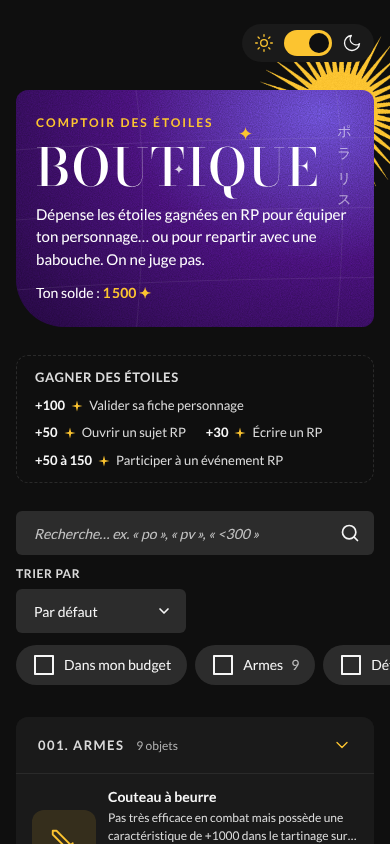
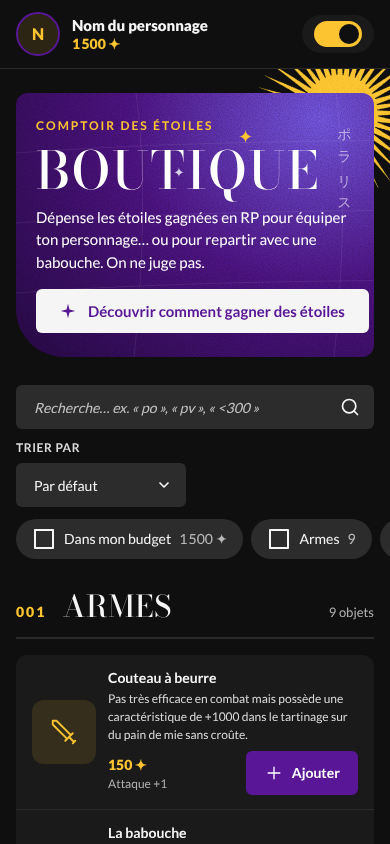
Boutique : barre joueur, titres de section, tiroir « gagner des étoiles »
Retours de revue :
- Barre joueur en haut (avatar, personnage, points) avec la bascule de
  thème à droite ; plus de vide en haut de page
- Les catégories ne sont plus des accordéons : grands titres Display
  numérotés pour structurer la page
- « Comment gagner des étoiles » passe dans un tiroir (panneau à droite
  sur desktop, feuille du bas sur mobile) ouvert depuis le bandeau
- Le filtre « Dans mon budget » affiche le montant disponible
- Descriptions affichées en entier, cartes alignées par rangée
- design.md : nouveaux motifs (barre joueur, titres, tiroir, cartes)

Claude-Session: https://claude.ai/code/session_01JzHEuFFPjQonpbuhxRkdFg

diff --git a/boutique/boutique.html b/boutique/boutique.html
@@ -106,7 +106,15 @@
 .plr-shop .plr-tag .plr-count { opacity: .7; }
 
 /* ---------- Bascule jour / nuit ---------- */
-.plr-shop .plr-topbar { display: flex; justify-content: flex-end; position: relative; z-index: 3; }
+.plr-shop .plr-playerbar { position: relative; z-index: 3; display: flex; align-items: center; justify-content: space-between; gap: 16px; padding: 16px clamp(16px, 3vw, 40px); border-bottom: 1px solid var(--line); background: var(--bg); }
+.plr-shop .plr-player { display: flex; align-items: center; gap: 12px; min-width: 0; }
+.plr-shop .plr-avatar { width: 44px; height: 44px; border-radius: 50%; flex-shrink: 0; overflow: hidden; display: grid; place-items: center; background: var(--icon-bg); color: var(--nav); border: 2px solid var(--primary); font-weight: 900; font-size: 16px; }
+.plr-shop .plr-avatar img { width: 100%; height: 100%; object-fit: cover; }
+.plr-shop .plr-player-txt { display: flex; flex-direction: column; min-width: 0; line-height: 1.25; }
+.plr-shop .plr-player-name { font-weight: 900; font-size: 15px; white-space: nowrap; overflow: hidden; text-overflow: ellipsis; }
+.plr-shop .plr-player-pts { display: inline-flex; align-items: center; gap: 5px; font-size: 14px; font-weight: 900; color: var(--price); }
+.plr-shop .plr-player-pts svg { width: 13px; height: 13px; fill: currentColor; }
+.plr-shop .plr-player-pts small { font-size: 12px; font-weight: 400; color: var(--muted); }
 .plr-shop .plr-theme { display: flex; align-items: center; gap: 10px; background: var(--surface); border-radius: 999px; padding: 6px 12px; }
 .plr-shop .plr-switch { width: 48px; height: 26px; border-radius: 999px; border: 0; background: var(--plr-gold); position: relative; cursor: pointer; padding: 0; }
 .plr-shop .plr-switch::after { content: ""; position: absolute; top: 3px; left: 3px; width: 20px; height: 20px; border-radius: 50%; background: var(--plr-black); transition: left .2s; }
@@ -124,14 +132,25 @@
 .plr-shop .plr-kicker { position: relative; color: var(--kicker); font-size: 12px; font-weight: 700; letter-spacing: 2px; text-transform: uppercase; }
 .plr-shop .plr-hero h1 { position: relative; margin: 0; font-family: var(--plr-font-title); font-weight: 500; font-size: clamp(52px, 9vw, 120px); line-height: .9; letter-spacing: 2px; color: #FFFFFF; text-transform: uppercase; }
 .plr-shop .plr-hero p { position: relative; margin: 0; max-width: 520px; color: var(--banner-text); font-size: 15px; }
-.plr-shop .plr-hero .plr-solde { position: relative; color: var(--banner-text); font-size: 14px; }
-.plr-shop .plr-hero .plr-solde b { color: var(--kicker); }
+.plr-shop .plr-hero .plr-earn-btn { position: relative; align-self: flex-start; margin-top: 4px; }
+.plr-shop .plr-hero .plr-earn-btn svg { width: 16px; height: 16px; fill: currentColor; stroke: none; }
 
 /* ---------- Gagner des étoiles ---------- */
-.plr-shop .plr-earn { display: flex; flex-wrap: wrap; align-items: center; gap: 8px 20px; padding: 12px 18px; border-radius: 12px; border: 1px dashed var(--line); }
-.plr-shop .plr-earn > span { display: inline-flex; align-items: center; gap: 6px; font-size: 13px; color: var(--text2); }
-.plr-shop .plr-earn b { color: var(--text); }
-.plr-shop .plr-earn svg { width: 12px; height: 12px; fill: var(--nav); }
+/* Tiroir (desktop : panneau à droite / mobile : feuille du bas) */
+.plr-shop .plr-drawer { position: fixed; inset: 0 0 0 auto; margin: 0; width: min(440px, 100vw); height: 100%; max-height: 100%; max-width: 100vw; padding: 0; border: 0; background: var(--surface); color: var(--text); border-left: 6px solid var(--primary); overflow-y: auto; }
+.plr-shop .plr-drawer[open] { animation: plr-slide-x .25s ease-out; }
+@keyframes plr-slide-x { from { transform: translateX(40px); opacity: 0; } }
+@keyframes plr-slide-y { from { transform: translateY(40px); opacity: 0; } }
+.plr-shop .plr-drawer-head { position: sticky; top: 0; display: flex; align-items: center; justify-content: space-between; gap: 12px; padding: 20px 24px; background: var(--header); }
+.plr-shop .plr-drawer-head h2 { margin: 0; font-family: var(--plr-font-title); font-weight: 500; font-size: 26px; line-height: 1.1; text-transform: uppercase; }
+.plr-shop .plr-drawer-close { width: 44px; height: 44px; border: 0; background: transparent; color: var(--text); font-size: 24px; cursor: pointer; flex-shrink: 0; }
+.plr-shop .plr-drawer-body { padding: 8px 24px 28px; }
+.plr-shop .plr-drawer h3 { margin: 22px 0 8px; font-size: 13px; font-weight: 700; letter-spacing: 1.2px; text-transform: uppercase; color: var(--text2); }
+.plr-shop .plr-gain { display: flex; align-items: flex-start; gap: 14px; padding: 12px 0; border-bottom: 1px solid var(--line); }
+.plr-shop .plr-gain b { flex: 0 0 104px; color: var(--price); font-size: 15px; font-weight: 900; white-space: nowrap; }
+.plr-shop .plr-gain span { flex: 1; min-width: 0; font-size: 14px; line-height: 1.45; }
+.plr-shop .plr-gain small { display: block; margin-top: 2px; font-size: 12px; color: var(--muted); }
+.plr-shop .plr-drawer-note { margin: 20px 0 0; padding: 14px 16px; border-radius: 10px; background: var(--inner); font-size: 13px; line-height: 1.5; color: var(--text2); }
 
 /* ---------- Recherche, tri, filtres ---------- */
 .plr-shop .plr-tools { display: flex; flex-direction: column; gap: 12px; position: relative; z-index: 4; }
@@ -163,13 +182,12 @@
 .plr-shop .plr-empty[hidden] { display: none; }
 
 /* ---------- Catégories repliables ---------- */
-.plr-shop .plr-cat { border-radius: 12px; overflow: hidden; background: var(--surface); margin-bottom: 20px; }
-.plr-shop .plr-cat-head { width: 100%; min-height: 52px; display: flex; align-items: center; justify-content: space-between; gap: 12px; background: var(--header); color: var(--text); border: 0; padding: 18px 22px; cursor: pointer; text-align: left; }
-.plr-shop .plr-cat-title { font-size: 13px; font-weight: 700; letter-spacing: 1.4px; text-transform: uppercase; color: var(--text2); }
-.plr-shop .plr-cat-count { margin-left: 12px; font-size: 12px; color: var(--muted); }
-.plr-shop .plr-chev { width: 14px; height: 14px; color: var(--nav); stroke-width: 2.5; transition: transform .3s; }
-.plr-shop .plr-cat-head[aria-expanded="false"] .plr-chev { transform: rotate(-90deg); }
-.plr-shop .plr-grid { padding: 20px; display: grid; grid-template-columns: repeat(auto-fill, minmax(240px, 1fr)); gap: 20px; background: var(--inner); }
+.plr-shop .plr-cat + .plr-cat { margin-top: 48px; }
+.plr-shop .plr-cat-head { display: flex; align-items: baseline; gap: 16px; flex-wrap: wrap; padding-bottom: 14px; margin-bottom: 24px; border-bottom: 2px solid var(--line); }
+.plr-shop .plr-cat-num { font-size: 14px; font-weight: 900; letter-spacing: 2px; color: var(--nav); }
+.plr-shop .plr-cat-head h2 { margin: 0; font-family: var(--plr-font-title); font-weight: 500; font-size: clamp(30px, 4vw, 44px); line-height: 1; letter-spacing: 1px; text-transform: uppercase; }
+.plr-shop .plr-cat-count { margin-left: auto; font-size: 13px; color: var(--muted); }
+.plr-shop .plr-grid { display: grid; grid-template-columns: repeat(auto-fill, minmax(240px, 1fr)); gap: 20px; }
 
 /* ---------- Carte objet ---------- */
 .plr-shop .plr-card { position: relative; background: var(--surface); border-radius: 12px; overflow: hidden; border-top: 6px solid var(--primary); display: flex; flex-direction: column; transition: transform .15s; }
@@ -196,7 +214,7 @@
 .plr-shop .plr-qty button:disabled { opacity: .35; cursor: not-allowed; }
 .plr-shop .plr-chip { font-size: 11px; font-weight: 700; letter-spacing: .8px; text-transform: uppercase; color: var(--tag-text); background: var(--tag-bg); padding: 3px 8px; border-radius: 999px; }
 .plr-shop .plr-card h3 { margin: 0; font-size: 16px; font-weight: 700; line-height: 1.3; }
-.plr-shop .plr-desc { margin: 0; font-size: 13px; line-height: 1.5; color: var(--text2); display: -webkit-box; -webkit-line-clamp: 3; -webkit-box-orient: vertical; overflow: hidden; }
+.plr-shop .plr-desc { margin: 0; font-size: 13px; line-height: 1.5; color: var(--text2); }
 .plr-shop .plr-foot { margin-top: auto; padding-top: 12px; display: flex; align-items: center; justify-content: space-between; gap: 8px; }
 .plr-shop .plr-price { color: var(--price); font-size: 18px; font-weight: 900; }
 .plr-shop .plr-stat { display: block; font-size: 12px; color: var(--muted); }
@@ -267,10 +285,16 @@
   .plr-shop .plr-cartbar b { font-size: 18px; font-weight: 900; color: var(--bar-total); }
   .plr-shop .plr-cartbar-n { background: var(--plr-gold); color: var(--plr-black); border-radius: 999px; min-width: 22px; padding: 1px 6px; font-size: 12px; font-weight: 900; text-align: center; }
   .plr-shop .plr-tags { flex-wrap: nowrap; overflow-x: auto; margin: 0 -16px; padding: 0 16px 4px; scrollbar-width: none; }
+  .plr-shop .plr-playerbar { padding: 12px 16px; }
+  .plr-shop .plr-theme .plr-ic { display: none; }
+  .plr-shop .plr-drawer { inset: auto 0 0 0; width: 100vw; height: auto; max-height: 85vh; border-left: 0; border-top: 6px solid var(--primary); border-radius: 20px 20px 0 0; }
+  .plr-shop .plr-drawer[open] { animation-name: plr-slide-y; }
 }
 @media (max-width: 600px) {
   /* Cartes en lignes */
-  .plr-shop .plr-grid { padding: 0; gap: 0; grid-template-columns: 1fr; }
+  .plr-shop .plr-grid { gap: 0; grid-template-columns: 1fr; background: var(--surface); border-radius: 12px; overflow: hidden; }
+  .plr-shop .plr-grid .plr-card:first-child { border-top: 0; }
+  .plr-shop .plr-cat-head { margin-bottom: 16px; }
   .plr-shop .plr-card { flex-direction: row; align-items: center; gap: 12px; padding: 14px 16px; border-top: 1px solid var(--line); border-radius: 0; }
   .plr-shop .plr-card:hover { transform: none; }
   .plr-shop .plr-thumb { width: 64px; height: 64px; flex-shrink: 0; background: none; }
@@ -279,7 +303,7 @@
   .plr-shop .plr-thumb-ic svg { width: 30px; height: 30px; }
   .plr-shop .plr-body { padding: 0; gap: 3px; }
   .plr-shop .plr-card h3 { font-size: 14px; }
-  .plr-shop .plr-desc { font-size: 12px; -webkit-line-clamp: 2; }
+  .plr-shop .plr-desc { font-size: 12px; }
   .plr-shop .plr-foot { padding-top: 4px; flex-wrap: wrap; }
   .plr-shop .plr-price { font-size: 14px; }
   .plr-shop .plr-badge { position: static; align-self: flex-start; margin-bottom: 2px; }
@@ -290,16 +314,24 @@
 <body style="margin:0">
 
 <div class="plr-shop plr-dark" id="plr-shop">
-  <div class="plr-layout">
-    <main class="plr-main">
-
-      <div class="plr-topbar">
+  <!-- Barre joueur : avatar, personnage, points à gauche / thème à droite -->
+  <div class="plr-playerbar">
+    <div class="plr-player">
+      <span class="plr-avatar" id="plr-avatar" aria-hidden="true"></span>
+      <span class="plr-player-txt">
+        <span class="plr-player-name" id="plr-pname"></span>
+        <span class="plr-player-pts"><span id="plr-ppts"></span><small id="plr-ppts-cart"></small></span>
+      </span>
+    </div>
         <div class="plr-theme">
           <svg class="plr-ic" viewBox="0 0 24 24" style="color:#FCC430" aria-hidden="true"><circle cx="12" cy="12" r="4"/><path d="M12 2v2M12 20v2M4.9 4.9l1.4 1.4M17.7 17.7l1.4 1.4M2 12h2M20 12h2M4.9 19.1l1.4-1.4M17.7 6.3l1.4-1.4"/></svg>
           <button type="button" class="plr-switch" id="plr-theme" aria-label="Basculer jour / nuit"></button>
           <svg class="plr-ic" viewBox="0 0 24 24" aria-hidden="true"><path d="M21 12.8A9 9 0 1 1 11.2 3a7 7 0 0 0 9.8 9.8z"/></svg>
         </div>
-      </div>
+  </div>
+
+  <div class="plr-layout">
+    <main class="plr-main">
 
       <!-- Bandeau : soleils Figma (img/), à héberger sur servimg puis remplacer SUN_DARK / SUN_LIGHT -->
       <div class="plr-hero-wrap">
@@ -322,17 +354,9 @@
           <span class="plr-kicker">Comptoir des étoiles</span>
           <h1>Boutique</h1>
           <p>Dépense les étoiles gagnées en RP pour équiper ton personnage… ou pour repartir avec une babouche. On ne juge pas.</p>
-          <span class="plr-solde">Ton solde : <b id="plr-solde-hero"></b></span>
+          <button type="button" class="plr-btn plr-btn--secondary plr-earn-btn" id="plr-earn-open" aria-haspopup="dialog"><svg viewBox="0 0 24 24" aria-hidden="true"><path d="M12 1 14.2 9.8 23 12 14.2 14.2 12 23 9.8 14.2 1 12 9.8 9.8z"/></svg><span>Découvrir comment gagner des étoiles</span></button>
         </header>
       </div>
-
-      <section class="plr-earn" aria-label="Gagner des étoiles">
-        <span class="plr-label">Gagner des étoiles</span>
-        <span><b>+100</b><svg viewBox="0 0 24 24" aria-hidden="true"><path d="M12 1 14.2 9.8 23 12 14.2 14.2 12 23 9.8 14.2 1 12 9.8 9.8z"/></svg>Valider sa fiche personnage</span>
-        <span><b>+50</b><svg viewBox="0 0 24 24" aria-hidden="true"><path d="M12 1 14.2 9.8 23 12 14.2 14.2 12 23 9.8 14.2 1 12 9.8 9.8z"/></svg>Ouvrir un sujet RP</span>
-        <span><b>+30</b><svg viewBox="0 0 24 24" aria-hidden="true"><path d="M12 1 14.2 9.8 23 12 14.2 14.2 12 23 9.8 14.2 1 12 9.8 9.8z"/></svg>Écrire un RP</span>
-        <span><b>+50 à 150</b><svg viewBox="0 0 24 24" aria-hidden="true"><path d="M12 1 14.2 9.8 23 12 14.2 14.2 12 23 9.8 14.2 1 12 9.8 9.8z"/></svg>Participer à un événement RP</span>
-      </section>
 
       <section class="plr-tools" aria-label="Rechercher et filtrer">
         <div class="plr-tools-row">
@@ -401,6 +425,27 @@
     <b id="plr-cartbar-total"></b>
   </button>
 
+  <!-- Tiroir « Comment gagner des étoiles » (source : Notion, Système d'étoiles) -->
+  <dialog class="plr-drawer" id="plr-earn" aria-labelledby="plr-earn-t">
+    <div class="plr-drawer-head">
+      <h2 id="plr-earn-t">Gagner des étoiles</h2>
+      <button type="button" class="plr-drawer-close" id="plr-earn-close" aria-label="Fermer">×</button>
+    </div>
+    <div class="plr-drawer-body">
+      <h3>En RP</h3>
+      <div class="plr-gain"><b>+100 ✦</b><span>Valider sa fiche personnage<small>Récompense de démarrage</small></span></div>
+      <div class="plr-gain"><b>+50 ✦</b><span>Ouvrir un sujet RP</span></div>
+      <div class="plr-gain"><b>+30 ✦</b><span>Écrire un RP</span></div>
+      <div class="plr-gain"><b>+50 à 150 ✦</b><span>Participer à un événement RP<small>Selon l'importance de l'événement, versées à la fin</small></span></div>
+      <h3>Communauté</h3>
+      <div class="plr-gain"><b>+10 ✦</b><span>Souhaiter la bienvenue à un nouveau membre sur sa fiche<small>Les messages sans fond (« FIRST », « welcome hihi »…) ne comptent pas</small></span></div>
+      <div class="plr-gain"><b>+20 ✦</b><span>Participer à un événement Discord</span></div>
+      <div class="plr-gain"><b>+80 ✦</b><span>Sponsoriser un nouveau membre<small>Une fois, quand il est validé et a écrit au moins 1 RP</small></span></div>
+      <div class="plr-gain"><b>Variable</b><span>Initiative de communauté<small>Défis collectifs : étoiles selon la réussite du défi</small></span></div>
+      <p class="plr-drawer-note">Chaque achat validé est déduit de ton solde d'étoiles. Plus tu en accumules, plus tu as de chances d'attirer l'attention des Constellations…</p>
+    </div>
+  </dialog>
+
   <dialog id="plr-confirm" aria-labelledby="plr-confirm-t">
     <div class="plr-confirm">
       <div class="plr-confirm-ok"><svg class="plr-ic" viewBox="0 0 24 24" aria-hidden="true"><path d="M5 12.5 10 17l9-10"/></svg></div>
@@ -422,7 +467,17 @@
      ORDER_URL : sujet où les commandes sont postées.
      SUN_*     : soleils Figma, à héberger (servimg…) puis remplacer.
      ------------------------------------------------------------------ */
-  var SOLDE = 1500;
+  var PLAYER = { name: "Nom du personnage", avatar: "", points: 1500 };
+  /* Sur Forumactif, _userdata donne le pseudo et l'avatar du membre connecté */
+  try {
+    var ud = window._userdata;
+    if (ud && ud.session_logged_in) {
+      PLAYER.name = ud.username || PLAYER.name;
+      var m = /src="([^"]+)"/.exec(ud.avatar || "");
+      PLAYER.avatar = ud.avatar_link || (m && m[1]) || "";
+    }
+  } catch (e) {}
+  var SOLDE = PLAYER.points;
   var ORDER_URL = "#";
   var SUN_DARK = "img/soleil-jaune-300.png";
   var SUN_LIGHT = "img/soleil-noir.png";
@@ -535,7 +590,7 @@
   });
 
   /* ---------- État ---------- */
-  var state = { query: "", types: [], budget: false, sort: "def", closed: {}, cart: {}, ac: false, hi: 0 };
+  var state = { query: "", types: [], budget: false, sort: "def", cart: {}, ac: false, hi: 0 };
   try { state.cart = JSON.parse(store.get("plr-cart") || "{}") || {}; } catch (e) { state.cart = {}; }
   /* panier sauvegardé : on respecte les limites d'achat actuelles */
   Object.keys(state.cart).forEach(function (n) {
@@ -628,11 +683,10 @@
       if (SORTERS[state.sort]) items = items.slice().sort(SORTERS[state.sort]);
       if (!items.length) return;
       count += items.length;
-      var open = filtering || !state.closed[c.id];
-      html += '<section class="plr-cat"><button type="button" class="plr-cat-head" data-toggle="' + c.id + '" aria-expanded="' + open + '">' +
-        '<span><span class="plr-cat-title">' + c.num + '. ' + esc(c.label) + '</span><span class="plr-cat-count">' + items.length + ' objet' + (items.length > 1 ? 's' : '') + '</span></span>' +
-        svg("m6 9 6 6 6-6", "plr-chev") + '</button>' +
-        (open ? '<div class="plr-grid">' + items.map(cardHTML).join("") + '</div>' : '') + '</section>';
+      html += '<section class="plr-cat" aria-labelledby="plr-cat-' + c.id + '"><header class="plr-cat-head">' +
+        '<span class="plr-cat-num">' + c.num + '</span><h2 id="plr-cat-' + c.id + '">' + esc(c.label) + '</h2>' +
+        '<span class="plr-cat-count">' + items.length + ' objet' + (items.length > 1 ? 's' : '') + '</span></header>' +
+        '<div class="plr-grid">' + items.map(cardHTML).join("") + '</div></section>';
     });
     $("plr-cats").innerHTML = html;
     $("plr-empty").hidden = count > 0;
@@ -644,7 +698,7 @@
   /* ---------- Rendu : Tags (filtres à choix multiple) ---------- */
   function renderTags() {
     var tagIcon = function (on) { return '<svg viewBox="0 0 24 24" aria-hidden="true"><path d="' + (on ? CK : SQ) + '"/></svg>'; };
-    var html = '<button type="button" class="plr-tag" data-budget aria-pressed="' + state.budget + '">' + tagIcon(state.budget) + '<span>Dans mon budget</span></button>';
+    var html = '<button type="button" class="plr-tag" data-budget aria-pressed="' + state.budget + '">' + tagIcon(state.budget) + '<span>Dans mon budget</span><span class="plr-count">' + fmt(Math.max(totals().rest, 0)) + '</span></button>';
     CATS.forEach(function (c) {
       var t = TAG[c.id], on = state.types.indexOf(t) >= 0;
       var n = all.filter(function (it) { return it.tags.indexOf(t) >= 0; }).length;
@@ -667,7 +721,8 @@
     }).join("") : '<p class="plr-cart-empty">Ton panier est vide.<br>Même pas une chaussette sale.</p>';
     $("plr-total").textContent = fmt(T.total);
     $("plr-solde").textContent = fmt(SOLDE);
-    $("plr-solde-hero").textContent = fmt(SOLDE);
+    $("plr-ppts").textContent = fmt(SOLDE);
+    $("plr-ppts-cart").textContent = T.count ? "· " + fmt(T.rest) + " après panier" : "";
     $("plr-rest").textContent = fmt(T.rest);
     $("plr-rest").classList.toggle("is-neg", T.rest < 0);
     $("plr-poor").hidden = T.rest >= 0;
@@ -757,7 +812,6 @@
     if (d.add != null) setQty(d.add, (state.cart[d.add] || 0) + 1);
     else if (d.dec != null) setQty(d.dec, (state.cart[d.dec] || 0) - 1);
     else if (d.remove != null) setQty(d.remove, 0);
-    else if (d.toggle) { state.closed[d.toggle] = !state.closed[d.toggle]; renderCats(); }
     else if (d.type) { var i = state.types.indexOf(d.type); if (i < 0) state.types.push(d.type); else state.types.splice(i, 1); renderCats(); }
     else if (d.budget != null) { state.budget = !state.budget; renderCats(); }
     else if (d.clearAll != null) { state.query = ""; input.value = ""; state.types = []; state.budget = false; state.sort = "def"; $("plr-sort").value = "def"; closeAc(); renderCats(); }
@@ -784,6 +838,17 @@
     $("plr-confirm").close ? $("plr-confirm").close() : $("plr-confirm").removeAttribute("open");
     renderCats(); renderCart();
   });
+
+  /* ---------- Barre joueur ---------- */
+  $("plr-pname").textContent = PLAYER.name;
+  $("plr-avatar").innerHTML = PLAYER.avatar ? '<img src="' + esc(PLAYER.avatar) + '" alt="">' : esc(PLAYER.name.trim().charAt(0).toUpperCase() || "?");
+
+  /* ---------- Tiroir « gagner des étoiles » ---------- */
+  var earn = $("plr-earn");
+  $("plr-earn-open").addEventListener("click", function () { if (earn.showModal) earn.showModal(); else earn.setAttribute("open", ""); });
+  var closeEarn = function () { if (earn.close) earn.close(); else earn.removeAttribute("open"); };
+  $("plr-earn-close").addEventListener("click", closeEarn);
+  earn.addEventListener("click", function (e) { if (e.target === earn) closeEarn(); });
 
   renderCats(); renderCart();
 })();

diff --git a/design.md b/design.md
@@ -238,7 +238,43 @@ sans images-clés. Sur le web, on la remplace par une **rotation CSS continue** 
 qui s'arrête si `prefers-reduced-motion` est activé. Les PNG exportés sont dans
 [`boutique/img/`](boutique/img/).
 
-### 5.9 Badges et états (boutique)
+### 5.9 Barre joueur (haut de page)
+
+Pleine largeur, au-dessus de tout le contenu, séparée par un filet `--line` :
+- **à gauche** : avatar rond 44 px (liseré 2 px couleur principale, initiale en repli),
+  **nom du personnage** en gras, **points actuels** en couleur prix
+  (+ « · X ✦ après panier » en discret quand un panier est en cours) ;
+- **à droite** : la bascule de thème (soleil / interrupteur jaune / lune ; icônes masquées sur mobile).
+
+Ne pas laisser la bascule de thème seule dans un bandeau vide : elle va dans cette barre.
+
+### 5.10 Titres de section (pas d'accordéon)
+
+Quand une page propose déjà des filtres, les sections ne se replient pas : chaque section a un
+**grand titre** pour structurer la page.
+- Numéro « 001 » en Lato 14 px gras, interlettrage 2 px, couleur d'accent ;
+- titre en **Display, 30–44 px, capitales** ;
+- compteur à droite (« 9 objets ») en discret ;
+- filet de 2 px sous le titre, 48 px d'écart entre deux sections.
+
+Sur mobile, les cartes d'une section sont regroupées dans un seul bloc `--surface` arrondi,
+séparées par des filets.
+
+### 5.11 Tiroir / feuille du bas
+
+Pour une information utile mais pas permanente (ex. « Comment gagner des étoiles »), on utilise
+un **bouton secondaire** qui ouvre un tiroir, plutôt qu'un bloc affiché en permanence :
+- **desktop** : panneau à droite, 440 px, liseré gauche 6 px couleur principale ;
+- **mobile** : feuille qui monte du bas, 85 % de hauteur max, liseré haut, coins hauts 20 px ;
+- en-tête collant (titre Display + bouton ×), fermeture par ×, Échap ou clic à l'extérieur.
+
+### 5.12 Cartes : contenu non tronqué
+
+Les descriptions s'affichent **en entier** (pas de troncature). Dans une grille, les cartes d'une
+même rangée prennent la hauteur de la plus haute, et le pied de carte (prix + action) reste
+aligné en bas.
+
+### 5.13 Badges et états (boutique)
 
 | Élément | Style |
 |---|---|
@@ -319,10 +355,11 @@ Autres règles :
 1. **Fond** `--bg`, contenu en cartes `--surface` au rayon 12 px, gap 20 px.
 2. **Titre de page** en Display, dans un **bandeau** violet (nuit) ou cyan (jour) avec grain,
    ✦, ポラリス vertical et un soleil qui déborde.
-3. **Sections** en blocs repliables « 00X. NOM ».
+3. **Sections** avec un grand titre « 00X NOM » (5.10). Accordéon seulement s'il n'y a pas de filtres.
+   Infos secondaires dans un **tiroir** (5.11). Barre joueur en haut de page (5.9).
 4. **Actions** : un seul bouton **primaire** par zone ; secondaire pour l'alternative ;
    tertiaire pour les liens d'action discrets (« Effacer », « Retirer »).
-5. **Filtres** : Tags `SmallSousCate` à choix multiple. **Recherche** : champ Search, loupe à droite.
+5. **Filtres** : Tags `SmallSousCate` à choix multiple (un filtre peut afficher une valeur, ex. « Dans mon budget · 700 ✦ »). **Recherche** : champ Search, loupe à droite.
 6. **Accent jaune** réservé à : icônes, dates, prix, badges. Pas de texte jaune sur fond clair ou cyan.
 7. **Toujours prévoir les deux thèmes** avec les correspondances du tableau 2.3.
 8. **Mobile** : cartes en lignes (vignette 64 px à gauche), actions principales collées en bas,

diff --git a/boutique/README.md b/boutique/README.md
@@ -16,7 +16,8 @@ Panneau d'admin → Modules → Pages HTML → créer une page et coller `boutiq
 garde le header du forum).
 
 ## À configurer (en haut du `<script>`)
-- `SOLDE` : étoiles du membre (valeur de démo : 1 500).
+- `PLAYER` : nom du personnage, avatar et points du membre (démo : « Nom du personnage », 1 500 ✦).
+  Sur Forumactif, le pseudo et l'avatar sont lus automatiquement depuis `_userdata` ; les points restent à brancher.
 - `ORDER_URL` : sujet où les commandes sont postées.
 - `SUN_DARK` / `SUN_LIGHT` : héberger `img/soleil-jaune-300.png` et `img/soleil-noir.png`
   (servimg…) puis remplacer les chemins, ainsi que le `src` de `#plr-sun`.
